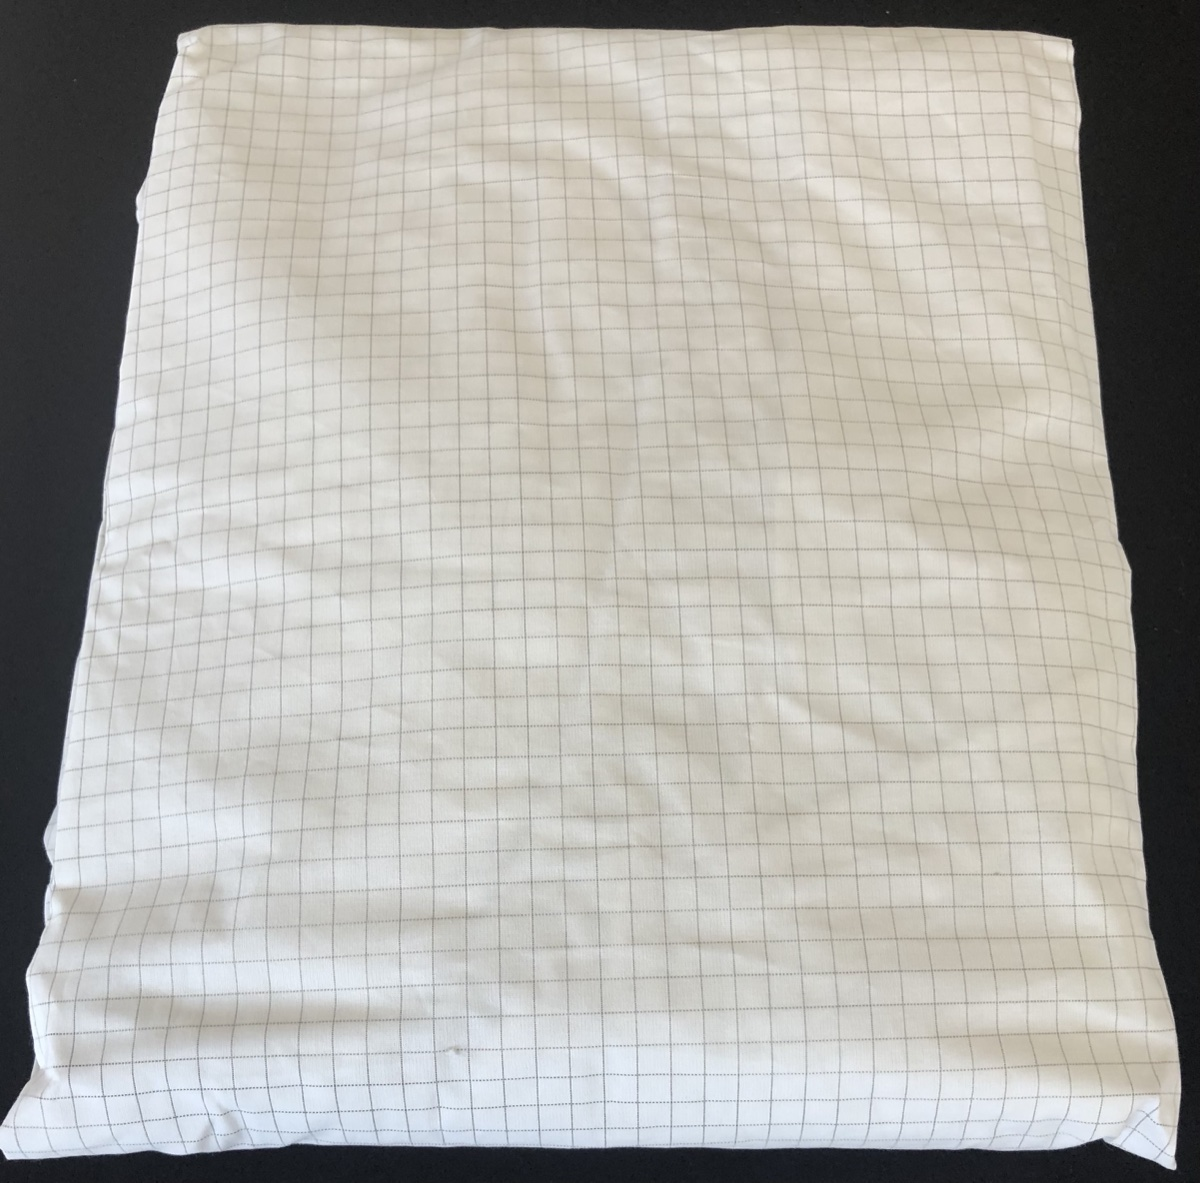
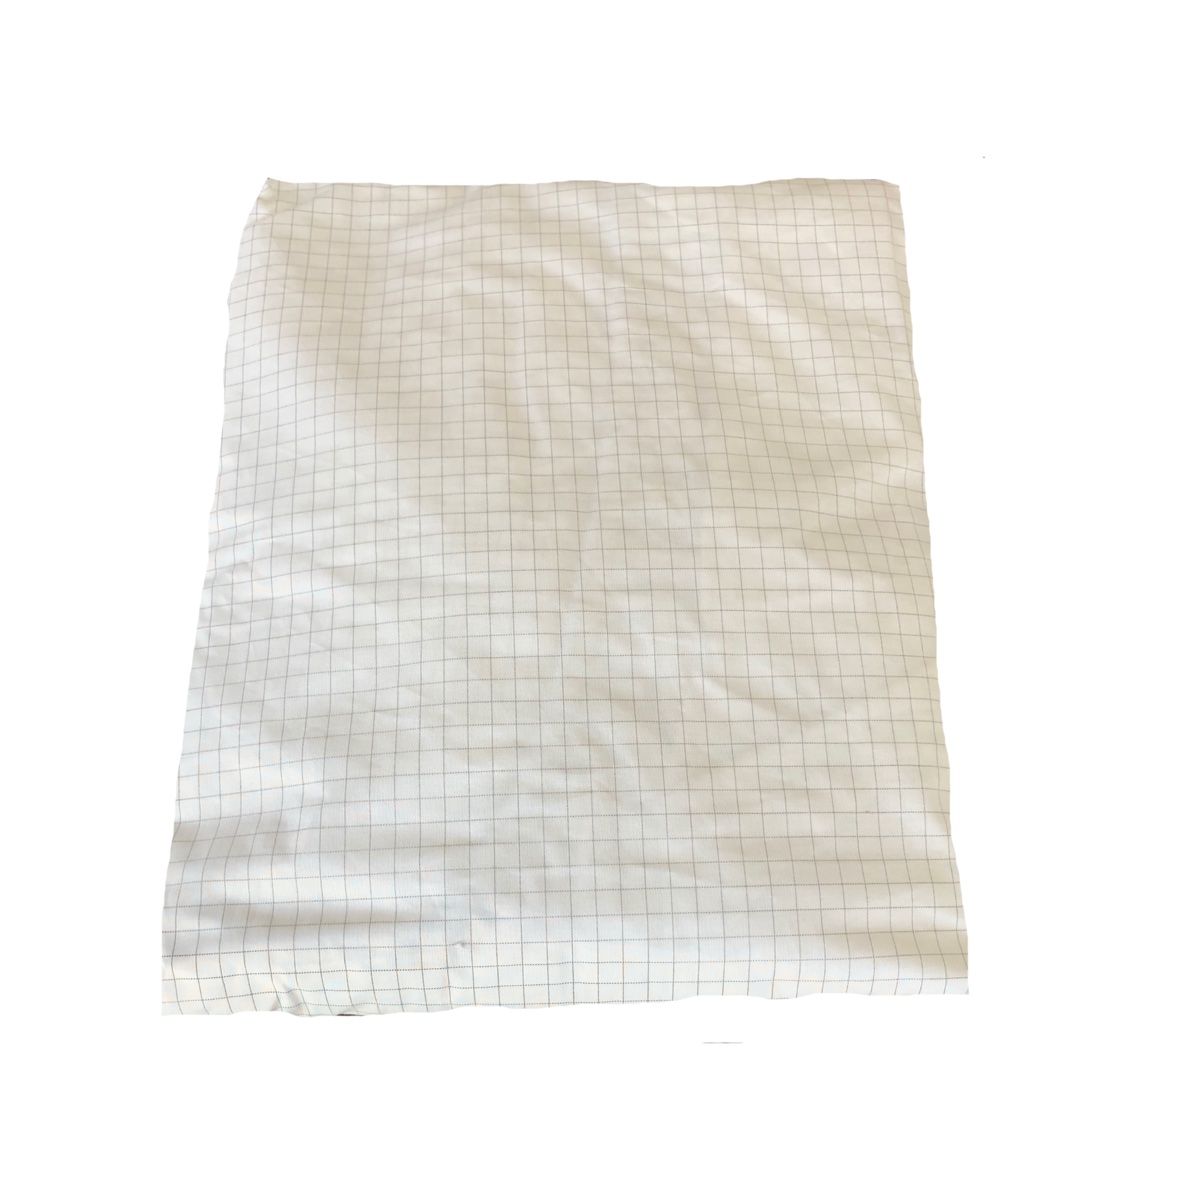
Swap product image to Erdungsspanntuch1 (white background)

diff --git a/src/app/erdungsspanntuecher-bocholt/page.tsx b/src/app/erdungsspanntuecher-bocholt/page.tsx
@@ -115,7 +115,7 @@ function WasIstErdung() {
               src="/images/products/erdungsspanntuch.jpg"
               alt="Erdungsspanntuch mit sichtbarem Silberfaden-Gitter – bei Schlafnerds in Bocholt"
               width={400}
-              height={394}
+              height={400}
               className="h-auto w-full object-cover"
             />
           </div>
